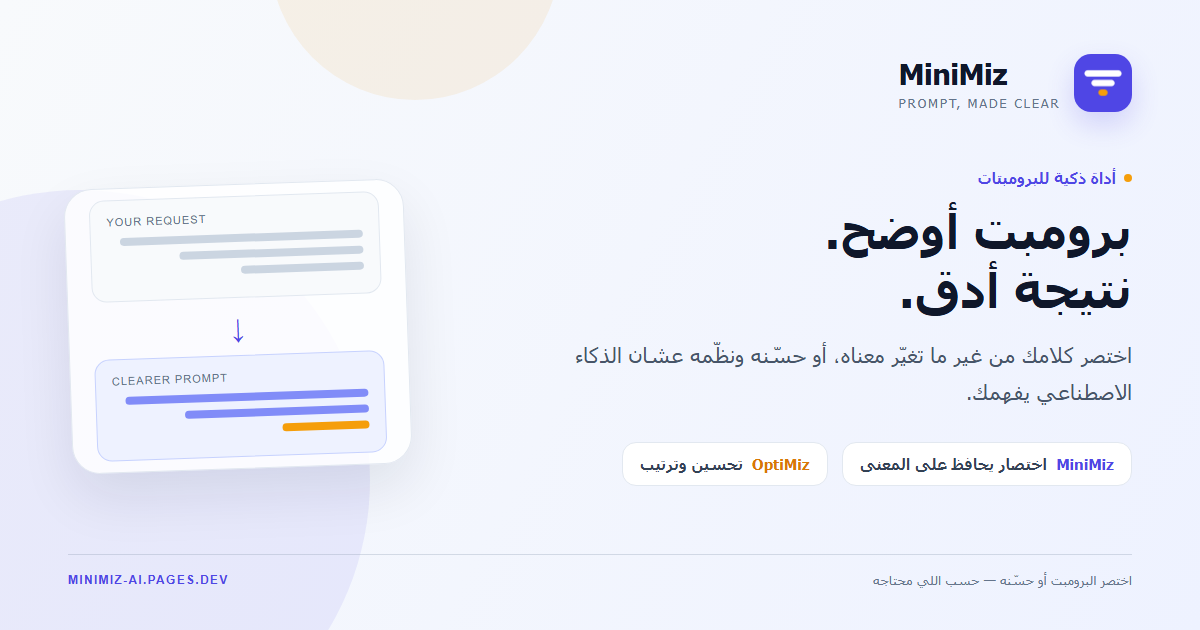
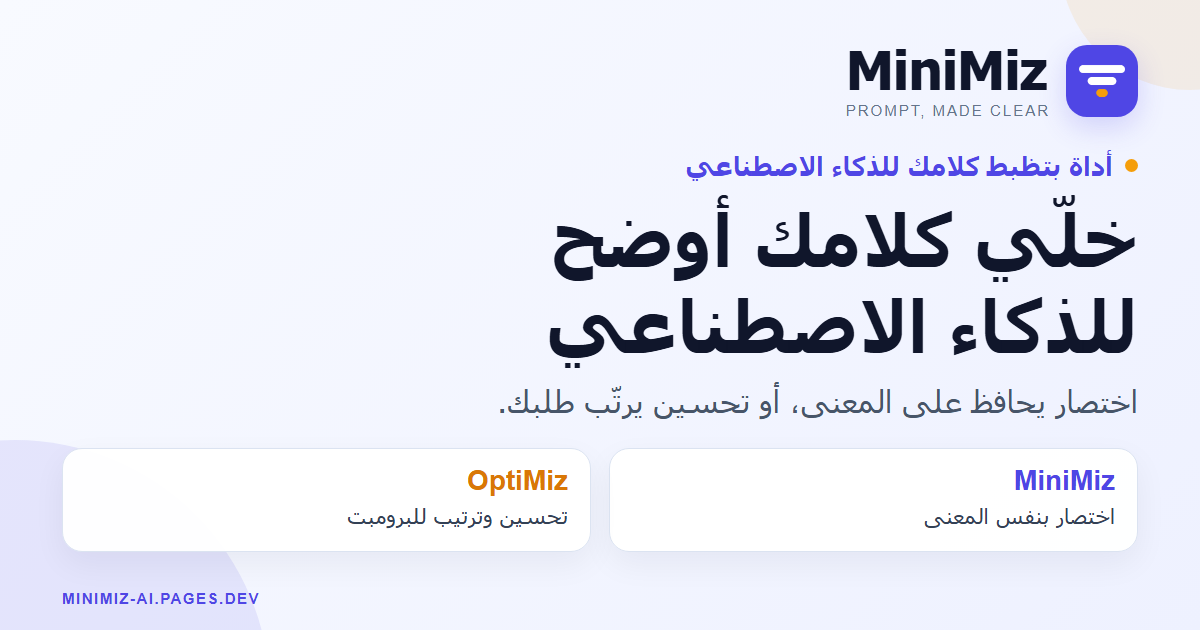
Fix MiniMiz requests and free task access
Allow the production Pages origin through Worker CORS, right-size free usage reservations, enforce Agent System-only free access, and improve link preview readability.

diff --git a/index.html b/index.html
@@ -176,6 +176,7 @@ tailwind.config = {
         <button title="Choose this task to summarize text" data-val="Summary" class="archetype-pill shrink-0 px-3.5 py-1.5 rounded-full text-sm font-medium bg-sunken text-ink-dim border border-line">Summary</button>
         <button title="Choose this task to analyze a topic" data-val="Analysis" class="archetype-pill shrink-0 px-3.5 py-1.5 rounded-full text-sm font-medium bg-sunken text-ink-dim border border-line">Analysis</button>
       </div>
+      <p id="premiumArchetypesNote" class="text-xs text-ink-faint leading-relaxed mt-1">Other task types will be included when subscriptions open.</p>
     </div>
 
     <div class="bg-panel border border-line rounded-xl p-3">
@@ -515,7 +516,7 @@ tailwind.config = {
   };
   const LANGUAGE_STORAGE_KEY = 'minimum-language';
   const textTranslations = {
-    "Select target archetype": "اختار نوع المهمة", "Agent System": "وكيل ذكي", "Prompt Optimizer": "تحسين", "Refactor": "ترتيب الكود", "Summary": "تلخيص", "Analysis": "تحليل",
+    "Select target archetype": "اختار نوع المهمة", "Other task types will be included when subscriptions open.": "الأنواع التانية هتتوفر مع الاشتراك لما يتفعل.", "Agent System": "وكيل ذكي", "Prompt Optimizer": "تحسين", "Refactor": "ترتيب الكود", "Summary": "تلخيص", "Analysis": "تحليل",
     "Abbreviation": "اختصار", "Improvement": "تحسين",
     "paste": "الصق", "MiniMiz": "MiniMiz", "OptiMiz": "OptiMiz", "optimizing…": "بنختصر…", "Optimization Strategy": "درجة الاختصار",
     "Conservative": "خفيف", "Balanced": "متوازن", "Aggressive": "مكثّف",
@@ -696,6 +697,7 @@ tailwind.config = {
     currentLanguage = language === 'ar' ? 'ar' : 'en';
     try { localStorage.setItem(LANGUAGE_STORAGE_KEY, currentLanguage); } catch {}
     translatePage();
+    if (typeof updateArchetypeAccess === 'function') updateArchetypeAccess();
     if (typeof refreshOptimizeAction === 'function') refreshOptimizeAction();
     if (activeHelpKey) showHelp(activeHelpKey);
     const activeView = document.querySelector('.view.active')?.id;
@@ -742,12 +744,36 @@ tailwind.config = {
     } catch { /* analytics failures should never block the UI */ }
   }
 
+  function updateArchetypeAccess() {
+    const note = $('premiumArchetypesNote');
+    if (note) note.classList.toggle('hidden', isAdmin);
+    document.querySelectorAll('.archetype-pill').forEach(button => {
+      const locked = !isAdmin && button.dataset.val !== 'Agent System';
+      let badge = button.querySelector('.archetype-lock-badge');
+      if (!badge) {
+        badge = document.createElement('span');
+        badge.className = 'archetype-lock-badge material-symbols-outlined text-xs ms-1 hidden';
+        badge.textContent = 'lock';
+        badge.setAttribute('aria-hidden', 'true');
+        button.appendChild(badge);
+      }
+      badge.classList.toggle('hidden', !locked);
+      button.classList.toggle('opacity-60', locked);
+      button.classList.toggle('cursor-not-allowed', locked);
+      button.setAttribute('aria-disabled', String(locked));
+      button.title = locked
+        ? (currentLanguage === 'ar' ? 'النوع ده مش متاح في المجاني دلوقتي. هيبقى ضمن الاشتراك لما يتفعل.' : 'This task type is not in the free version. It will be included when subscriptions open.')
+        : (currentLanguage === 'ar' ? 'اختار نوع المهمة ده' : 'Choose this task type');
+    });
+  }
+
   async function loadProfile() {
-    if (!supa || !currentUser) { currentProfile = null; isAdmin = false; return; }
+    if (!supa || !currentUser) { currentProfile = null; isAdmin = false; updateArchetypeAccess(); return; }
     const { data } = await supa.from('profiles').select('*').eq('id', currentUser.id).maybeSingle();
     currentProfile = data || null;
     isAdmin = !!(currentProfile && currentProfile.is_admin);
     $('adminNavBtn').classList.toggle('hidden', !isAdmin);
+    updateArchetypeAccess();
   }
 
   function renderSignedInUI() {
@@ -772,6 +798,7 @@ tailwind.config = {
     currentUser = null; currentProfile = null; isAdmin = false;
     $('appShell').classList.add('hidden');
     $('authGate').classList.remove('hidden');
+    updateArchetypeAccess();
   }
 
   async function initAuth() {
@@ -932,8 +959,15 @@ tailwind.config = {
     document.querySelectorAll('.mode-btn').forEach((button, i) => { button.title = modeTitles[i]; });
   }
 
+  updateArchetypeAccess();
   document.querySelectorAll('.archetype-pill').forEach(btn => {
     btn.addEventListener('click', () => {
+      if (!isAdmin && btn.dataset.val !== 'Agent System') {
+        toast(currentLanguage === 'ar'
+          ? 'النوع ده مش متاح في المجاني دلوقتي. هيبقى ضمن الاشتراك لما يتفعل.'
+          : 'This task type is not in the free version. It will be included when subscriptions open.');
+        return;
+      }
       archetype = btn.dataset.val;
       document.querySelectorAll('.archetype-pill').forEach(b => {
         b.classList.remove('bg-indigo','text-white');
@@ -1025,9 +1059,14 @@ tailwind.config = {
       const data = await callAPI(null, 'GET', cfg.usageWorker);
       renderUsageMeter(data.usage);
     } catch (error) {
-      $('freeUsageStatus').textContent = currentLanguage === 'ar'
-        ? 'عداد الاستخدام محتاج إعداد من المسؤول'
-        : 'Usage meter setup is required';
+      const message = String(error && error.message || '');
+      const setupIssue = /USAGE_ACCOUNTING|AUTH_CONFIG_MISSING/.test(message);
+      const authIssue = /AUTH_REQUIRED|API_AUTH_REJECTED|NOT_SIGNED_IN/.test(message);
+      $('freeUsageStatus').textContent = authIssue
+        ? (currentLanguage === 'ar' ? 'جلسة الدخول محتاجة تحديث' : 'Sign-in needs refreshing')
+        : setupIssue
+          ? (currentLanguage === 'ar' ? 'مؤشر الاستخدام محتاج مراجعة إعدادات الخدمة' : 'The usage meter needs a service configuration check')
+          : (currentLanguage === 'ar' ? 'مش قادرين نحدّث المؤشر دلوقتي. جرّب تاني بعد شوية.' : 'Could not refresh the meter. Try again shortly.');
     }
   }
 
@@ -1159,6 +1198,14 @@ tailwind.config = {
         toast(currentLanguage === 'ar' ? 'مش قادرين نوصل لخدمة تسجيل الدخول دلوقتي. جرّب بعد شوية.' : 'Sign-in service is temporarily unavailable. Try again shortly.');
       } else if (String(err.message).includes('AI_PROVIDER_ERROR') || String(err.message).includes('API 502')) {
         toast(currentLanguage === 'ar' ? 'خدمة الذكاء الاصطناعي ماكملتش الطلب. جرّب تاني بعد شوية.' : 'The AI provider could not complete the request. Try again shortly.');
+      } else if (String(err.message).includes('SUBSCRIPTION_REQUIRED')) {
+        toast(currentLanguage === 'ar'
+          ? 'النوع ده مش متاح في المجاني دلوقتي. هيبقى ضمن الاشتراك لما يتفعل.'
+          : 'This task type is not in the free version. It will be included when subscriptions open.');
+      } else if (String(err.message).includes('REQUEST_EXCEEDS_FREE_BUDGET')) {
+        toast(currentLanguage === 'ar'
+          ? 'الطلب أكبر من الاستخدام المتبقي النهارده. قلّل تفاصيله أو جرّب بعد ما المؤشر يتجدد.'
+          : 'This request is larger than your remaining daily allowance. Shorten it or try after the meter resets.');
       } else if (String(err.message).includes('FREE_DAILY_LIMIT')) {
         toast(currentLanguage === 'ar' ? 'استهلكت استخدامك المجاني لليوم. هيتجدد بكرة.' : 'You used today’s free allowance. It resets tomorrow.');
       } else if (String(err.message).includes('APP_DAILY_LIMIT')) {

diff --git a/worker.js b/worker.js
@@ -61,6 +61,7 @@ Rules:
 - If questionnaireAnswers are provided in the user message, treat the input as already clarified and always return Shape B.`;
 
 const ALLOWED_ORIGINS = new Set([
+  "https://minimiz-ai.pages.dev",
   "https://minimum-ai.pages.dev",
   "http://localhost:8787",
   "http://localhost:3000",
@@ -156,7 +157,20 @@ async function verifySupabaseUser(env, request) {
   }
 }
 
-const MAX_OUTPUT_TOKENS = 4096;
+const MAX_OUTPUT_TOKENS = 1024;
+
+function estimateReservedInputTokens(text) {
+  let arabicCharacters = 0;
+  let totalCharacters = 0;
+  for (const character of text) {
+    totalCharacters += 1;
+    if (/\p{Script=Arabic}/u.test(character)) arabicCharacters += 1;
+  }
+  // Reserve one token per Arabic character and one per three other characters.
+  // This safely fits normal prompts into the configured free allowance without
+  // counting every English system-prompt character as a separate token.
+  return Math.ceil(arabicCharacters + (totalCharacters - arabicCharacters) / 3);
+}
 
 function numericTokenCount(value) {
   const parsed = Number(value);
@@ -332,6 +346,10 @@ export default {
 
     const prompt = typeof body.prompt === "string" ? body.prompt.trim() : "";
     const archetype = typeof body.archetype === "string" ? body.archetype.slice(0, 60) : "";
+    const isAdmin = !!env.ADMIN_EMAIL && String(authResult.user.email || "").trim().toLowerCase() === String(env.ADMIN_EMAIL).trim().toLowerCase();
+    if (!isAdmin && archetype !== "Agent System") {
+      return jsonResponse({ error: "SUBSCRIPTION_REQUIRED" }, 403, origin);
+    }
     const mode = ["conservative", "balanced", "aggressive"].includes(body.mode)
       ? body.mode
       : "balanced";
@@ -376,10 +394,10 @@ export default {
     }
 
     const requestId = crypto.randomUUID();
-    // Reserve conservatively before calling the paid/free provider. A one-token-
-    // per-character input ceiling plus the output cap leaves room for Arabic
-    // tokenization differences; actual provider counts replace this reservation.
-    const reservedTokens = Math.ceil(userMessage.length + systemPrompt.length + MAX_OUTPUT_TOKENS);
+    // Reserve before calling the provider. The Arabic estimate is deliberately
+    // conservative, while English system instructions are estimated at one token
+    // per three characters. The output cap keeps requests within small free quotas.
+    const reservedTokens = estimateReservedInputTokens(userMessage) + estimateReservedInputTokens(systemPrompt) + MAX_OUTPUT_TOKENS;
     let reservation;
     try {
       reservation = await adminRpc(env, "reserve_ai_usage", {
@@ -395,10 +413,14 @@ export default {
     }
     if (!reservation.allowed) {
       const usage = publicUsageMeter(reservation);
+      const remainingUserTokens = Number(reservation.user_limit) - Number(reservation.user_used);
+      const requestExceedsRemainingAllowance = reservation.reason === "user_limit" && remainingUserTokens > 0;
       return jsonResponse({
-        error: reservation.reason === "global_limit" ? "APP_DAILY_LIMIT" : "FREE_DAILY_LIMIT",
+        error: reservation.reason === "global_limit"
+          ? "APP_DAILY_LIMIT"
+          : requestExceedsRemainingAllowance ? "REQUEST_EXCEEDS_FREE_BUDGET" : "FREE_DAILY_LIMIT",
         usage,
-      }, 429, origin);
+      }, requestExceedsRemainingAllowance ? 413 : 429, origin);
     }
 
     let providerUsage = null;
